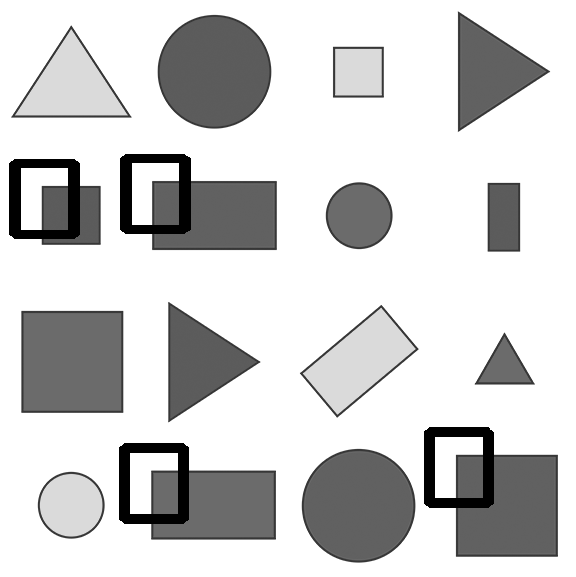
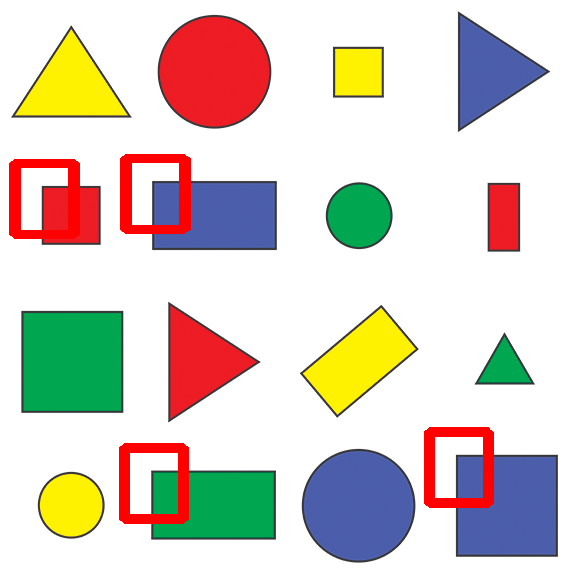
Changed template_match to color

diff --git a/assignment_3/main.py b/assignment_3/main.py
@@ -22,9 +22,10 @@ def template_match(shapes, template):
     match = cv2.matchTemplate(shapes_gray, template_gray, cv2.TM_CCOEFF_NORMED)
     threshold = 0.9
     loc = np.where(match >= threshold)
+    result = shapes.copy()
     for pt in zip(*loc[::-1]):
-        cv2.rectangle(shapes_gray, pt, (pt[0] + w, pt[1] + h), (0, 0, 255), 2)
-    return shapes_gray
+        cv2.rectangle(result, pt, (pt[0] + w, pt[1] + h), (0, 0, 255), 2)
+    return result
 
 def resize(image, scale_factor: int , up_or_down: str):
     result_image = image.copy()
